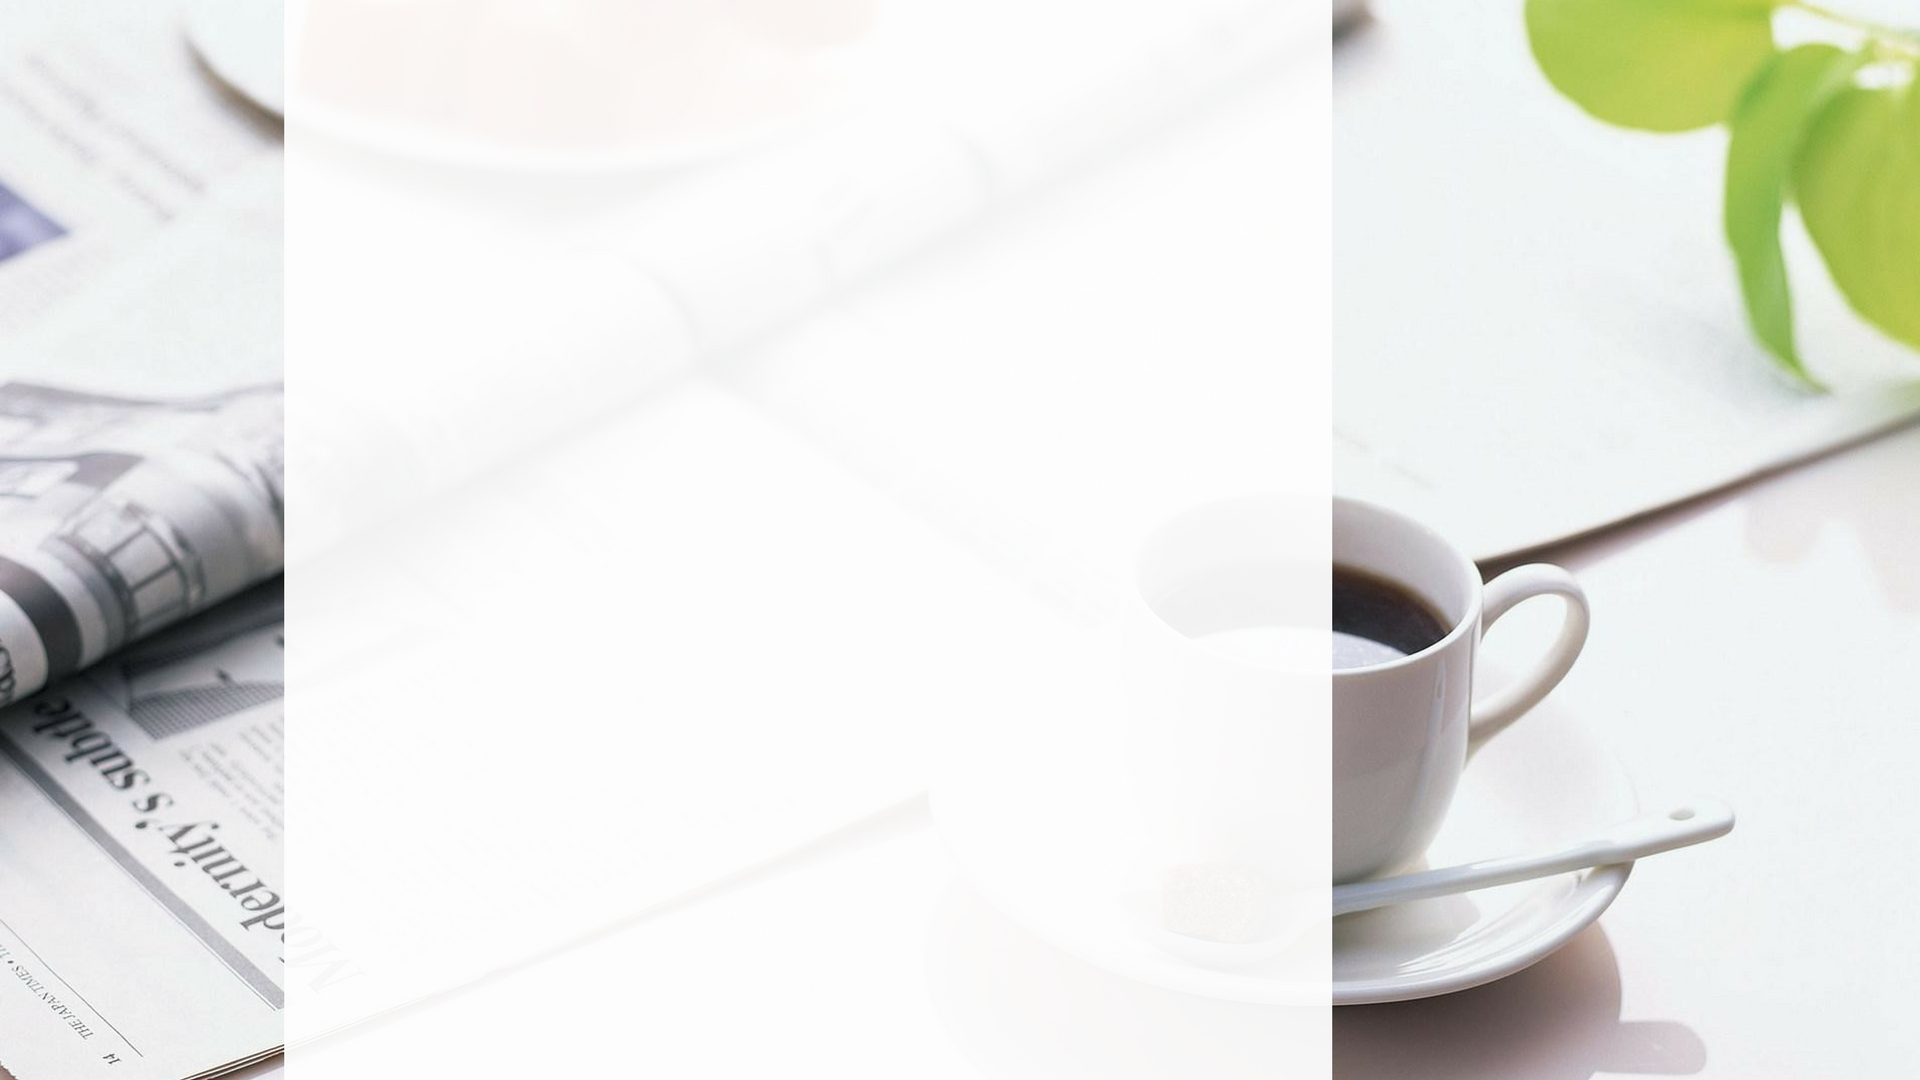
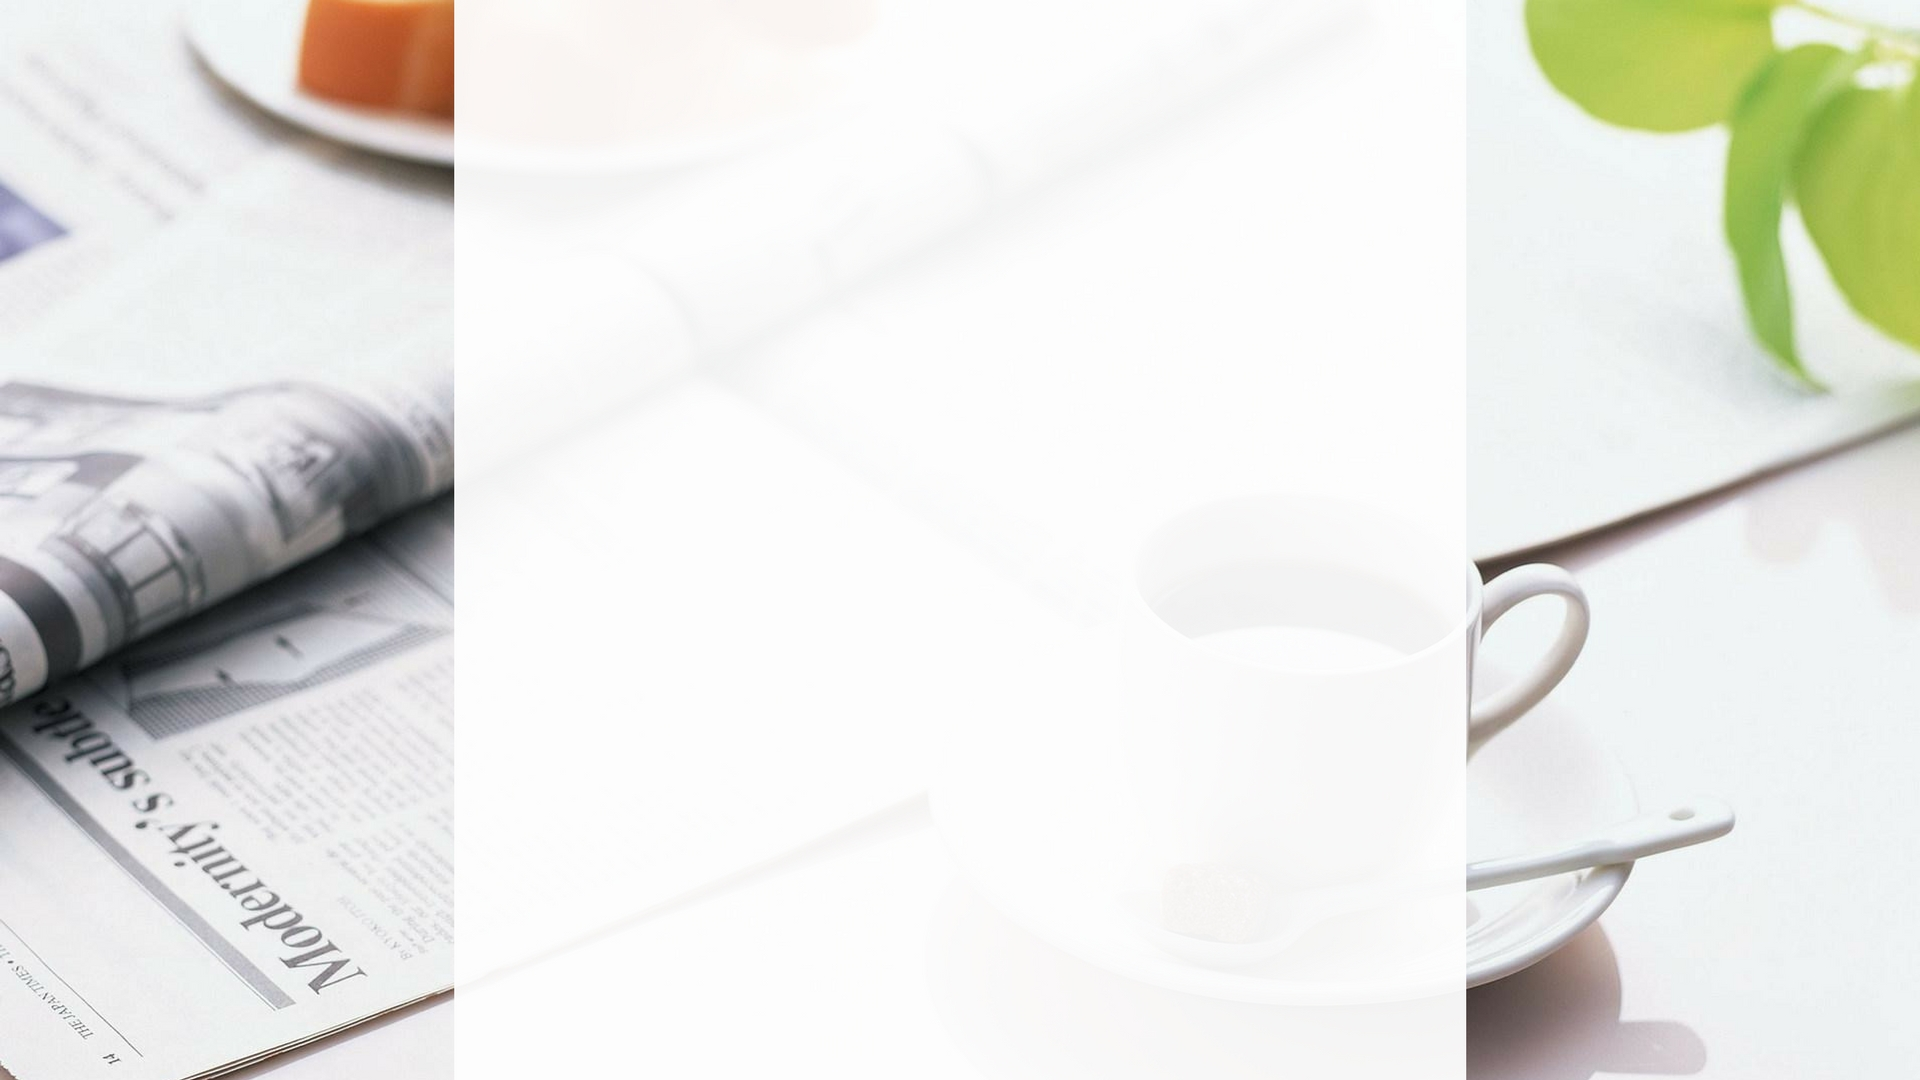
Centered Background

diff --git a/public/stylesheets/index.css b/public/stylesheets/index.css
@@ -4,7 +4,8 @@
  */
 
 body {
-     background-image: url('newspaper.jpg'); 
+     background-image: url('newspaper.jpg');
+     background-position: center; 
 }
 
 .page-title {
